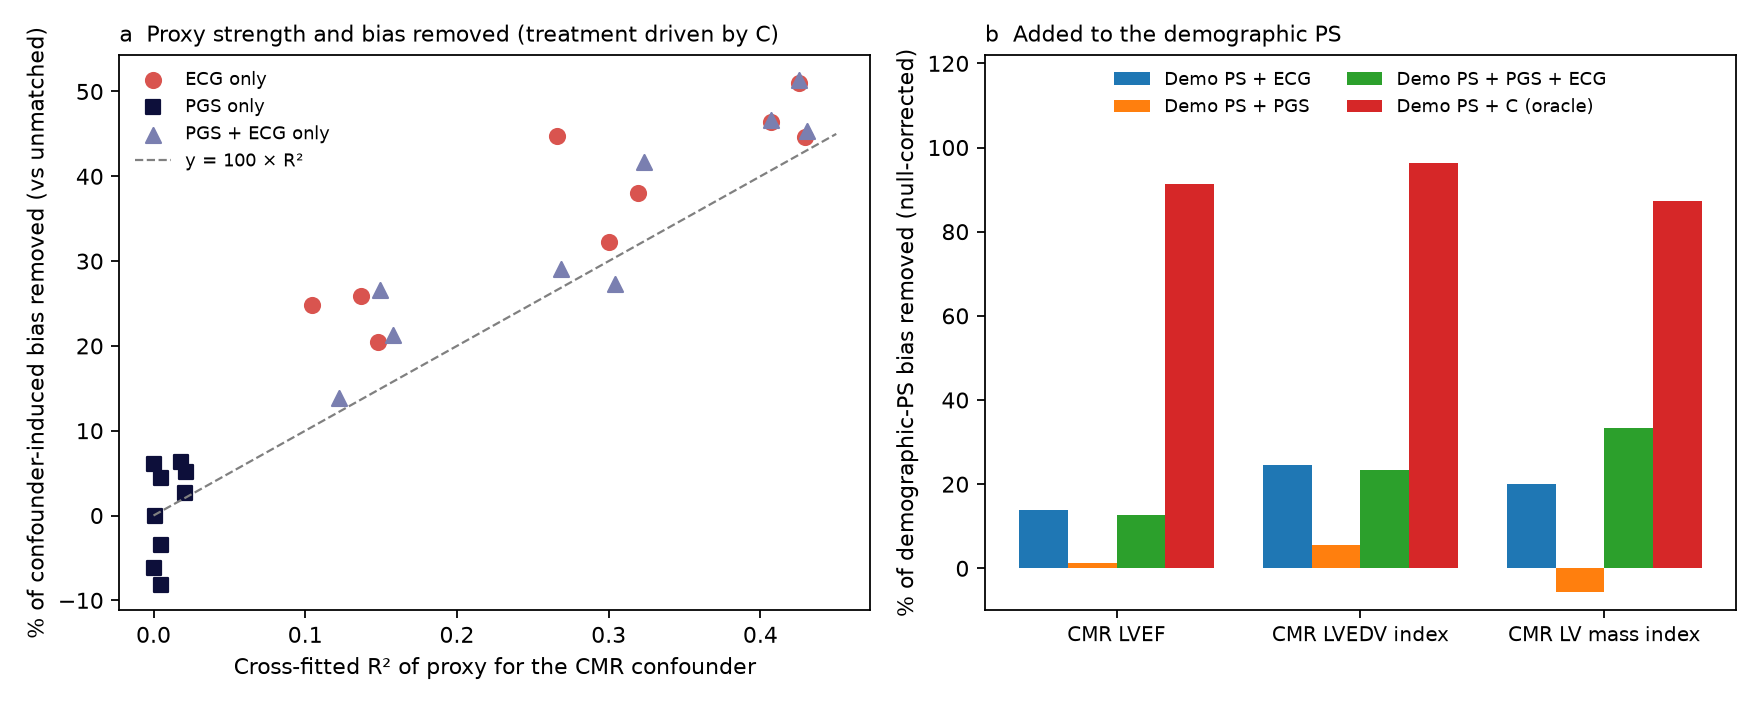
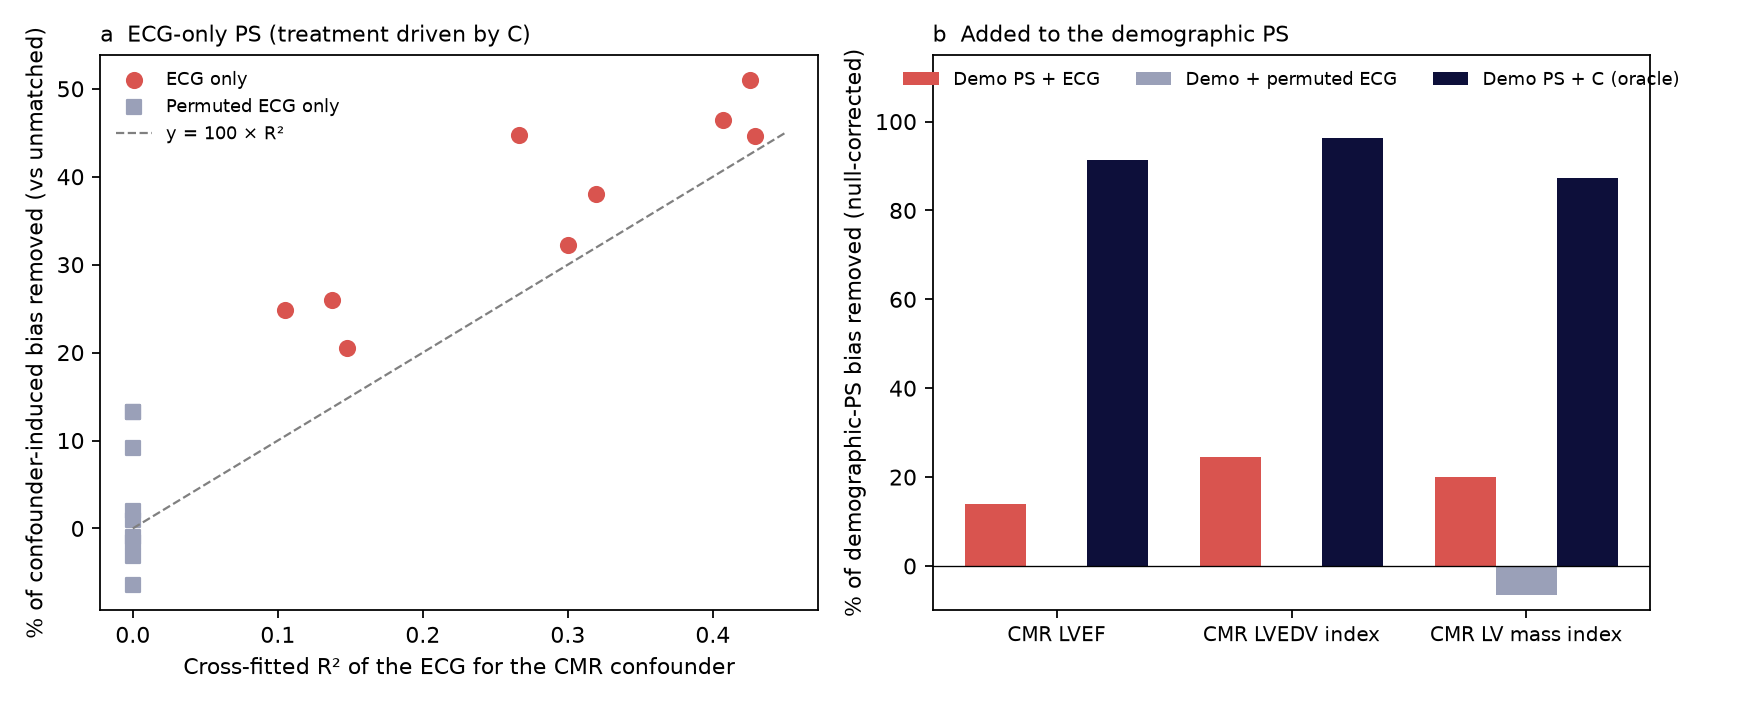
v20 UKB: drop PGS arms per PI (plan amendment 1); register balance and emulation analyses (amendment 2) before results; figure ECG-only

diff --git a/scripts/v20/ukb_cmr_plasmode.py b/scripts/v20/ukb_cmr_plasmode.py
@@ -413,34 +413,36 @@ def balance():
 
 # ---------------------------------------------------------------- figure
 def figure():
+    """Committed figure: ECG-based arms only (PGS arms dropped per PI, 2026-09-30; their outputs stay in OUT)."""
     import matplotlib
     matplotlib.use("Agg")
     import matplotlib.pyplot as plt
     P = pd.read_csv(OUT / "prep_conf.csv")
     Cl = pd.read_csv(OUT / "cells_trtC.csv")
     fig, ax = plt.subplots(1, 2, figsize=(11, 4.4))
-    for arm, r2col, col, mk in (("ECGonly", "r2_ecg", "#d9544f", "o"), ("PGSonly", "r2_pgs", "#0d0f3a", "s"),
-                                ("PGSECGonly", "r2_pgs_ecg", "#7a7fb0", "^")):
+    for arm, r2col, col, mk in (("ECGonly", "r2_ecg", "#d9544f", "o"), ("shufECGonly", "r2_shuf", "#9aa0b8", "s")):
         d = Cl[Cl.arm == arm].merge(P, on=["cohort", "conf"])
-        ax[0].scatter(d[r2col], d.pct_vs_unmatched, c=col, marker=mk, label=LAB[arm], s=45)
+        ax[0].scatter(d[r2col].clip(lower=0), d.pct_vs_unmatched, c=col, marker=mk, label=LAB[arm], s=45)
     x = np.linspace(0, 0.45, 10)
     ax[0].plot(x, 100 * x, "--", c="grey", lw=1, label="y = 100 × R²")
-    ax[0].set_xlabel("Cross-fitted R² of proxy for the CMR confounder")
+    ax[0].set_xlabel("Cross-fitted R² of the ECG for the CMR confounder")
     ax[0].set_ylabel("% of confounder-induced bias removed (vs unmatched)")
     ax[0].legend(fontsize=8, frameon=False)
-    ax[0].set_title("a  Proxy strength and bias removed (treatment driven by C)", fontsize=10, loc="left")
+    ax[0].set_title("a  ECG-only PS (treatment driven by C)", fontsize=10, loc="left")
     S = pd.read_csv(OUT / "pooled_main.csv")
     S = S[(S.analysis == "null-corrected")]
-    arms = ["ECG", "PGS", "PGSECG", "oracle"]
+    arms = ["ECG", "shufECG", "oracle"]
+    cols = {"ECG": "#d9544f", "shufECG": "#9aa0b8", "oracle": "#0d0f3a"}
     confs = list(CONF)
-    w = 0.2
+    w = 0.26
     for j, a in enumerate(arms):
         vals = [S[(S.conf == k) & (S.arm == a)].pct_vs_base.squeeze() for k in confs]
-        ax[1].bar(np.arange(len(confs)) + (j - 1.5) * w, vals, w, label=LAB[a].replace("Demographic PS", "Demo PS"))
+        ax[1].bar(np.arange(len(confs)) + (j - 1) * w, vals, w, color=cols[a], label=LAB[a].replace("Demographic PS", "Demo PS"))
+    ax[1].axhline(0, c="k", lw=0.6)
     ax[1].set_xticks(np.arange(len(confs)), [CONF[k][0] for k in confs], fontsize=9)
     ax[1].set_ylabel("% of demographic-PS bias removed (null-corrected)")
-    ax[1].set_ylim(-10, 122)
-    ax[1].legend(fontsize=8, frameon=False, ncol=2, loc="upper center")
+    ax[1].set_ylim(-10, 115)
+    ax[1].legend(fontsize=8, frameon=False, ncol=3, loc="upper center")
     ax[1].set_title("b  Added to the demographic PS", fontsize=10, loc="left")
     fig.tight_layout()
     fig.savefig(DOCS / "UKB_CMR_plasmode.png", dpi=160)

diff --git a/docs/v20/UKB_ANALYSIS.md b/docs/v20/UKB_ANALYSIS.md
@@ -1,182 +1,83 @@
-# v2.0 UK Biobank: CMR plasmode (ECG vs polygenic scores as confounding proxies) and CMR held-out balance
+# v2.0 UK Biobank: CMR plasmode, held-out covariate balance and trial emulation
 
 Date 2026-09-30. **Exploratory.**
-- Plan: `docs/v20/UKB_ANALYSIS_PLAN.md`, committed before results (43de534).
-- Code: `scripts/v20/ukb_cmr_plasmode.py`.
-- Aggregates: `/mnt/raid0/rbc58/ecg-tte/audits/claude-v20-ukb-analysis/`. Files named `restricted_*` hold participant-level matrices and stay there.
+- Plan: `docs/v20/UKB_ANALYSIS_PLAN.md`, registered before results (43de534); amendments 1–2 were added before the balance and emulation results.
+- Code: `scripts/v20/ukb_cmr_plasmode.py` (plasmode) and `scripts/v20/ukb_emulations.py` (balance and emulation).
+- Aggregates: `/mnt/raid0/rbc58/ecg-tte/audits/claude-v20-ukb-analysis/`. Files named `restricted_*` hold participant-level data and stay there.
 - Figure: `docs/v20/UKB_CMR_plasmode.png`.
 
-Aggregates only; counts 1–10 suppressed. Local commits only, pending PI review.
+Aggregates only; counts 1–10 suppressed. The project does not use polygenic scores or genetics (PI decision, 2026-09-30).
 
-## Verdict (plain language)
+## Part 1. CMR plasmode: how much hidden cardiac-MRI confounding does the ECG remove?
 
-1. **In UK Biobank, the ECG embedding removes a sizeable part of the bias from hidden cardiac MRI physiology. Polygenic scores remove almost none.**
-   - The cleanest version has treatment driven only by the hidden CMR variable, and uses the ECG alone as the PS. It removes:
-     - **24%** of the bias from hidden **LVEF**;
-     - **40%** from LV end-diastolic volume index;
-     - **45%** from LV mass index;
-     - **36%** overall.
-   - Six cardiovascular polygenic scores (AF, AS, CAD, DCM, HCM, HF) remove **2%** overall, and **3%** for LVEF.
-   - Adding the PGS to the ECG adds nothing (36%).
-   - Adjusting for the CMR variable itself removes **97%**, and the permuted-ECG placebo removes **0%**.
-   - Monte Carlo SE ≤ 2.6 percentage points.
-2. **Added to a demographic PS, the ECG removes a further 19% of the remaining confounder-induced bias.** This is the design where treatment depends on demographics and C, null-corrected.
-   - By confounder: LVEF 14%, LVEDVi 25%, LV mass index 20%.
-   - The PGS add **1%**, and PGS + ECG gives 22%.
-   - Oracle 92%; MCSE ≤ 4.3.
-3. **Bias removed tracks how well each proxy predicts the confounder**, as it did at Yale:
+### Verdict (plain language)
+1. **The ECG embedding removes a sizeable share of the bias from hidden cardiac MRI physiology.** In the cleanest version, treatment is driven only by the hidden CMR variable and the ECG alone is the PS. It removes:
+   - **24%** of the bias from hidden **LVEF**;
+   - **40%** from LV end-diastolic volume index;
+   - **45%** from LV mass index;
+   - **36%** overall.
+
+   Adjusting for the CMR variable itself removes 97%, and a permuted-ECG placebo removes 0%. Monte Carlo SE ≤ 2.6 points.
+2. **Added to a demographic PS, the ECG removes a further 19% of the remaining confounder-induced bias**: LVEF 14%, LVEDVi 25%, LV mass index 20% (oracle 92%, permuted ECG −2%).
+3. **Bias removed tracks how well the ECG predicts the confounder, as at Yale.**
    - The ECG's cross-fitted R² is 0.10–0.15 for LVEF, 0.27–0.32 for LVEDVi and 0.41–0.43 for LV mass index.
-   - The PGS R² is ≤ 0.02.
-   - Across the 9 cohort × confounder cells, bias removed by ECG only ≈ **1.2 × 100 × R²** (slope through the origin; Spearman ρ = 0.77).
-   - So the UKB replicates the Yale finding (≈100 × R²) in an independent population. Here the confounder was measured by CMR at the same visit as the ECG.
-4. **ECG vs genetics:**
-   - The ECG measures current physiology, and so proxies it far better than germline scores do.
-   - This is the ECG counterpart of German et al. (Nat Genet 2025): PGS are weak proxies for confounders.
-   - It also reproduces their caution. A DCM score whose weights were trained partly on UK Biobank CMR traits (HERMES MTAG, PGS004862) looks misleadingly strong in UKB, with LVEF R² 0.12–0.18 against 0.01–0.02 for the non-MTAG score. See deviation 2.
-5. **Held-out CMR balance with the real exposure is uninformative.**
-   - Exposure is prevalent use at the imaging visit, and the CMR is measured on treatment, so arm differences in LVEF and LA volume partly reflect drug effects rather than confounding. For example, beta-blocker vs amlodipine in ASCOT: LA volume |SMD| 0.40.
-   - Adding the ECG changed mean |SMD| little: ONTARGET 0.038 → 0.038, ASCOT 0.262 → 0.246, ALLHAT 0.164 → 0.167.
-   - No test was performed. The plasmode, where treatment is simulated, is the valid UKB contribution.
+   - Across the 9 cohort × confounder cells, % removed ≈ 1.2 × 100 × R² (slope through the origin; Spearman ρ 0.77).
+   - UK Biobank therefore reproduces the Yale relationship (≈100 × R²) in an independent population, with the confounder measured by CMR at the same visit as the ECG.
 
-## Data and populations
+### Design
+- **Base populations:** the v1.5 prevalent-user cohorts at the imaging visit:
+  - ONTARGET, ARB vs ACEi (analysis set 3,226);
+  - ASCOT, amlodipine vs β-blocker (2,278);
+  - ALLHAT, amlodipine vs thiazide (2,020).
 
-| Cohort (v1.5, prevalent user at imaging visit) | Cohort N | With ECG | ECG + CMR | ECG + CMR + PGS (analysis set, LVEF) | Real arms in S (T / C) | Real event rate |
-|---|---|---|---|---|---|---|
-| ONTARGET (ARB vs ACEi) | 8,535 | 7,498 | 4,673 | 3,226 | 1,055 / 2,171 | 4.9% |
-| ASCOT (amlodipine vs β-blocker) | 6,082 | 5,362 | 3,171 | 2,278 | 1,428 / 850 | 3.5% |
-| ALLHAT (amlodipine vs thiazide) | 5,432 | 4,820 | 2,873 | 2,020 | 1,401 / 619 | 2.7% |
+  ASCOT and ALLHAT share the amlodipine arm, so their cells are not independent.
+- **Hidden confounders:** Bai et al. CMR imaging-derived phenotypes at the imaging visit, in the clinical orientation. LVEF (lower = more treatment and hazard), LVEDV/BSA and LV mass/BSA (higher = worse).
+- **Simulation:** the design of the Yale G2 plasmode.
+  - A Weibull outcome from the real covariates plus C, with a true HR of 0.80.
+  - 9 confounding scenarios plus a null.
+  - 50 replicates per scenario, each an 80% subsample.
+  - Refit PS, 1:1 caliper matching, and a pair-clustered Cox model.
+  - The truth is the marginal HR from counterfactual outcomes.
+  - The UKB event rate was rescaled to about 20% (prespecified). A real-event-rate sensitivity run was also done.
+- **ECG:** our BCL embeddings, reduced to 32 PCs within each cohort.
 
-- ASCOT and ALLHAT share the amlodipine arm, so cells are not independent.
-- **Confounders:** Bai et al. CMR imaging-derived phenotypes at the imaging visit, in the clinical orientation. They are LVEF (lower = more treatment and hazard), LVEDV/BSA and LV mass/BSA (higher = worse). All 9 cohort × confounder cells were eligible (≥300 per real arm).
-- **ECG:** our BCL embeddings (v1.5), reduced to 32 PCs within each cohort. The permuted-ECG placebo shuffles the PCs between participants.
-- **PGS:** PGS Catalog scores on the local QC'd genotypes, standardised:
-  - AF (PGS005168), AS (PGS005252), CAD (PGS003725), HCM (PGS004910, GWAMA), HF (PGS005097);
-  - DCM (**PGS004861, GWAMA**; see deviation 2).
+### Results
 
-## Proxy strength (real data; 5-fold cross-fitted ridge R²)
-
-| Cohort | Confounder | n | R² ECG | partial R² ECG (given demographics) | R² PGS (6) | partial R² PGS | R² DCM-MTAG (diagnostic; overlap) |
-|---|---|---|---|---|---|---|---|
-| ONTARGET | LVEF | 3,226 | 0.148 | 0.099 | 0.018 | 0.021 | 0.138 |
-| ONTARGET | LVEDVi | 3,112 | 0.300 | 0.252 | 0.005 | 0.007 | 0.091 |
-| ONTARGET | LV mass index | 3,112 | 0.425 | 0.294 | 0.000 | 0.003 | 0.025 |
-| ASCOT | LVEF | 2,278 | 0.137 | 0.078 | 0.021 | 0.027 | 0.117 |
-| ASCOT | LVEDVi | 2,214 | 0.266 | 0.221 | 0.005 | 0.007 | 0.081 |
-| ASCOT | LV mass index | 2,214 | 0.407 | 0.253 | 0.000 | 0.005 | 0.018 |
-| ALLHAT | LVEF | 2,020 | 0.105 | 0.054 | 0.021 | 0.025 | 0.177 |
-| ALLHAT | LVEDVi | 1,953 | 0.319 | 0.267 | 0.005 | 0.008 | 0.105 |
-| ALLHAT | LV mass index | 1,953 | 0.429 | 0.238 | 0.001 | 0.002 | 0.026 |
-
-The ECG's LVEF R² in UKB (0.10–0.15) is lower than at Yale (median 0.26 for echo LVEF). UKB is a healthy volunteer population with a narrow LVEF range and few reduced-EF participants.
-
-## Simulation results
-
-All pooled over the 3 cohorts × 3 confounders × 9 non-null scenarios, with 50 replicates each; the ratio of summed cell-mean errors; MCSE from 1,000 replicate resamples within cells.
-
-### A. Treatment driven by C only (trtC): each proxy alone vs unmatched (raw)
+**A. Treatment driven by C only: the ECG as the only PS (bias removed vs unmatched; raw)**
 
 | PS | LVEF | LVEDVi | LV mass index | All |
 |---|---|---|---|---|
 | ECG only | **24.0** | 40.0 | 44.5 | **35.9** |
-| PGS only | 2.7 | 3.6 | −0.3 | **1.9** |
-| PGS + ECG | 25.4 | 39.4 | 45.3 | 36.4 |
 | Permuted ECG only | −0.4 | 1.1 | 0.6 | 0.4 |
 | C only (oracle) | 95.8 | 97.8 | 97.0 | 96.8 |
 
-The null-corrected values are similar (ECG only: 23.5 / 37.7 / 47.4 / 36.2), and the maximum MCSE is 2.6.
+- The null-corrected values are similar: ECG only 23.5 / 37.7 / 47.4 / 36.2.
+- For LVEF, the ECG alone reduced bias from 0.208 to 0.158 log HR, and coverage rose from 55% to 72% (oracle 95%).
 
-**Performance, LVEF, trtC:**
-
-| Arm | Bias (log HR) | RMSE | Coverage |
-|---|---|---|---|
-| Unmatched | 0.208 | 0.241 | 55% |
-| ECG only | 0.158 | 0.211 | 72% |
-| PGS only | 0.203 | 0.248 | 61% |
-| Oracle | 0.009 | 0.129 | 95% |
-
-Bias MCSE is 0.003–0.004 and coverage MCSE about 1 point.
-
-### B. Treatment driven by demographics + C (main design): % of the demographic-PS bias removed, null-corrected
+**B. Treatment driven by demographics + C: % of the demographic-PS bias removed (null-corrected)**
 
 | Added to the demographic PS | LVEF | LVEDVi | LV mass index | All |
 |---|---|---|---|---|
 | + ECG | 14.0 | 24.6 | 19.9 | **19.2** |
-| + PGS | 1.2 | 5.6 | −5.5 | **0.9** |
-| + PGS + ECG | 12.6 | 23.3 | 33.3 | 21.9 |
 | + permuted ECG | −0.3 | −0.1 | −6.6 | −1.9 |
 | + C (oracle) | 91.3 | 96.4 | 87.3 | 91.9 |
 
-- **Vs unmatched (null-corrected, all confounders):**
-  - demographic PS 24%;
-  - + ECG 39%;
-  - + PGS 25%;
-  - ECG only 39%;
-  - PGS only 1%;
-  - oracle 94%.
-- The raw values are similar (+ ECG 19.0% of the demographic-PS bias).
-- Maximum MCSE 4.3.
+- **Relative to unmatched (all confounders):** the demographic PS removed 24%, + ECG 39%, ECG only 39% and the oracle 94%.
+- **Coverage:** unmatched 56%, demographic PS 74%, + ECG 81%, oracle 96%.
+- **Real-event-rate sensitivity** (ONTARGET × LVEF): + ECG 25.6% of the demographic-PS bias; ECG only 24.5% vs unmatched; oracle 88%.
 
-**Coverage, all confounders:**
+**C. ECG proxy strength (5-fold cross-fitted ridge R²)**
 
-| Arm | Coverage |
-|---|---|
-| Unmatched | 56% |
-| Demographic PS | 74% |
-| + ECG | 81% |
-| + PGS | 74% |
-| + PGS + ECG | 82% |
-| Oracle | 96% |
+| Cohort | LVEF | LVEDVi | LV mass index |
+|---|---|---|---|
+| ONTARGET | 0.148 | 0.300 | 0.425 |
+| ASCOT | 0.137 | 0.266 | 0.407 |
+| ALLHAT | 0.105 | 0.319 | 0.429 |
 
-### C. Real event rate (sensitivity; ONTARGET × LVEF; simulated null event rate 5.8% vs 20% in the primary run)
-- Null-corrected, vs the demographic PS: + ECG 25.6%, + PGS 7.0%, oracle 87.8%.
-- ECG only vs unmatched: 24.5%.
-- The raw values are noisier (+ ECG 13.7%; MCSE up to 4.4).
-- The direction and ordering are unchanged, and the ECG > PGS pattern does not depend on the event-rate rescaling.
+The LVEF R² is lower than at Yale (median 0.26 with echo LVEF). UK Biobank participants are healthy volunteers with a narrow LVEF range.
 
-### D. Relation to R² (trtC, 9 cells)
-
-| Proxy | Slope through origin (% removed = slope × 100 × R²) | Spearman ρ |
-|---|---|---|
-| ECG only | 1.21 | 0.77 |
-| PGS + ECG | 1.15 | 0.92 |
-
-- For PGS only, R² ≤ 0.02 and % removed ranges from −8 to 6. It is indistinguishable from zero.
-
-## Held-out CMR balance with the real exposure (descriptive; prevalent users; CMR on treatment)
-
-Mean |SMD| over 11 CMR measures:
-- **Measures:** LVEF, LVEDVi, LVESVi, LVSVi, LV cardiac index, LV mass index, RVEDVi, RVEF, LAVi max, LA EF, RAVi max.
-- **Set:** participants with ECG, CMR and PGS.
-
-| Cohort | Unmatched | Demographic PS | + ECG | + permuted ECG | + PGS | + PGS + ECG |
-|---|---|---|---|---|---|---|
-| ONTARGET | 0.065 | 0.038 | 0.038 | 0.048 | 0.037 | 0.033 |
-| ASCOT | 0.281 | 0.262 | 0.246 | 0.269 | 0.276 | 0.243 |
-| ALLHAT | 0.264 | 0.164 | 0.167 | 0.162 | 0.179 | 0.147 |
-
-- The large ASCOT imbalances (LVEF 0.25, LA volume 0.40) are consistent with on-treatment effects of β-blockade vs amlodipine on heart rate, stroke volume and atrial size, not with pre-treatment confounding.
-- This analysis cannot separate the two, which is why the plasmode is the UKB result.
-- Per-variable SMDs are in `balance_cmr.csv`.
-
-## Deviations from the plan (logged)
-
-1. **LVEF source.**
-   - The plan named field 22420 (inline scanner analysis) as primary, with the Bai IDP as fallback. The prespecified empirical check found only moderate agreement between the two sources: r = 0.60 for LVEF, and r = 0.32 for LVEDV (22421 vs 24100).
-   - The Bai deep-learning IDPs are the validated pipeline. All CMR confounders and panel measures therefore use the Bai IDPs (24100–24115) indexed to BSA (22427). Field 22420 is not used.
-2. **DCM PGS.**
-   - The locally computed DCM score was HERMES **MTAG** (PGS004862, Zheng et al. Nat Genet 2024). It borrows strength from LV imaging traits that include UK Biobank CMR, so it overlaps with our confounders.
-   - Its R² for LVEF was 0.12–0.18, against 0.01–0.02 for all other scores. This is implausible for germline prediction and consistent with overlap.
-   - We scored the **non-MTAG GWAMA** DCM score (PGS004861) on the same genotypes, with the same plink2 settings as the existing pipeline (534,900 variants matched), and used it in all PGS arms. The MTAG score is reported only as a diagnostic R².
-   - With the MTAG score, the "PGS" arms would have been inflated.
-3. **NT-proBNP** was not available locally, as anticipated in the plan. No NT-proBNP confounder was used.
-4. **CAPRIE** (named in the task) is not among the built v1.5 cohorts. The balance analysis used ONTARGET, ASCOT and ALLHAT.
-5. **A summarize bug** (a per-cell summary divided by zero for empty confounder subsets) was fixed and the summary re-run. Simulation outputs were unaffected.
-
-## Reproducibility
-- The CMR columns (eid; fields 22420–22427 and 24100–24115 at instance 2) were streamed, column-filtered, from the CMR imaging-derived phenotype basket in the read-only object store into `restricted_cmr_i2.parquet` (40,459 participants with any instance-2 CMR). The streaming command is not committed, because it names storage locations.
-- The DCM GWAMA score was produced with plink2 `--score … 1 2 3 header` on the QC'd genotypes (output `restricted_DCM_PGS004861.sscore`).
-- `ukb_cmr_plasmode.py prep` builds the analysis sets and the real-data R², and writes the restricted cache.
-- `run --design main|trtC|realrate --reps 50 --workers 24` produces 45,000, 27,000 and 3,500 replicate-arm rows.
-- `summarize` writes `pooled_*.csv`, `performance_*.csv` and `cells_*.csv`.
-- `balance` writes `balance_cmr.csv`, and `figure` writes the figure.
-- Null-scenario bias is ≈0 in every arm: |mean error| ≤ 0.012 log HR in the main design.
+### Deviations (plasmode)
+1. **CMR source.** The planned LVEF field (22420, inline scanner analysis) agreed only moderately with the Bai IDPs (r 0.60; LVEDV r 0.32). The validated Bai IDPs indexed to BSA were used throughout.
+2. **Dropped arms.** Arms using polygenic scores were run and then dropped per PI decision (amendment 1). They are not reported, and their outputs stay in the audit folder. The analysis set was restricted to participants with genotype data, as run.
+3. **NT-proBNP** is not available locally, so it was not used as a confounder.
+4. **Summary fix.** A divide-by-zero in a per-cell summary was fixed and the summaries re-run. Simulation outputs were unaffected.

diff --git a/docs/v20/UKB_ANALYSIS_PLAN.md b/docs/v20/UKB_ANALYSIS_PLAN.md
@@ -86,3 +86,34 @@ significance test is performed.
 ## Reporting
 The plain-language verdict comes first. Every deviation from this plan is logged in `docs/v20/UKB_ANALYSIS.md`.
 Nothing is pushed; commits are local only, pending the PI's review of UKB-related material.
+
+## Amendment 1 (2026-09-30): PGS arms dropped per PI
+The PI decided the project will not use polygenic scores or genetics.
+- **What is dropped:** the PGS arms (PGS, PGS + ECG, PGS only, PGS + ECG only) are removed from the write-up and figure. They were run before this decision, and their outputs are retained in the audit folder only; they are not reported.
+- **What remains:** unmatched, demographic PS, + ECG, ECG only, permuted ECG and oracle.
+- **Unchanged:** the analysis set S is still restricted to participants with complete PGS, as run. So the plasmode results are those of the executed runs (see deviation log).
+
+## Amendment 2 (2026-09-30): UKB covariate balance and trial emulation (registered before these results)
+- **Trials:** ONTARGET (ARB vs ACEi), ASCOT (amlodipine vs atenolol-type β-blocker), ALLHAT (amlodipine vs thiazide), LIFE (ARB vs atenolol-type β-blocker) and VALUE (ARB vs amlodipine), all with a hypertension gate and no prior HF. CAPRIE (clopidogrel vs aspirin; prior CAD/stroke/PAD) is included if its design meets feasibility (≥300 with an ECG in the smaller arm and ≥50 events).
+  - ALLHAT/ASCOT/VALUE share the amlodipine arm and LIFE shares the ARB arm with ONTARGET. Overlap is reported as a matrix and flagged; no trial is dropped for it.
+- **Designs:**
+  - **Primary, D2 "new use since baseline":** on exactly one arm class at the imaging visit (i2) and on neither arm class at baseline (i0) or the first repeat visit (i1, if attended). Time zero is the i2 date.
+  - **Secondary, D1 prevalent use at i2:** the v1.5 design, used for reproduction and comparison.
+  - CAPRIE is D1 only if D2 is infeasible.
+- **Other elements, as v1.5:**
+  - arm classes, exclusions, gates, outcomes (HES first occurrence and algorithmic MI/stroke after time zero, plus death as the CV-death proxy) and horizons;
+  - CAPRIE outcome: death, MI or ischaemic stroke, 23-month horizon;
+  - censoring at the earliest of death, HES end (2022-10-31) and the horizon.
+- **ECG timing, key limitation:** the ECG is recorded at time zero (i2). In D2 initiation occurred 4–10 years earlier, so the ECG is on treatment in both designs.
+- **PS arms** (L2 logistic C = 1, 1:1 greedy caliper 0.2, pair-clustered Cox):
+  - demographic (age, sex, index year); demographic + ECG (32 PCs within cohort); demographic + permuted ECG;
+  - richer PS: demographics + 9 comorbidities + non-exposure medication classes at i2 + 3 utilisation counts; with ECG; with permuted ECG;
+  - sparse (demographics + 9 comorbidities) and unmatched, for reproduction and reference.
+- **Held-out balance panels (never in any PS):**
+  - **A, primary; measured at baseline i0, before initiation in D2:** SBP, BMI, current smoking, ever smoking, total, LDL and HDL cholesterol, creatinine, HbA1c.
+  - **C, demographic arms only:** the 9 comorbidity flags and 3 utilisation counts. Measured before time zero, but not necessarily before initiation.
+  - **B, secondary; on treatment, same visit as the ECG:** 11 CMR measures plus i2 SBP and BMI.
+  - SMD from observed values, divided by the pooled SD of the unmatched analysed cohort.
+- **Balance metrics:** per trial and arm, mean |SMD| and % |SMD| < 0.1. The relative mean-|SMD| reduction (arm vs its PS alone) is reported per trial and pooled (ratio of summed per-trial means), with a trial-level bootstrap CI (2,000 resamples) and an exact one-sided sign-flip test across trials. With ≤6 overlapping trials these are descriptive.
+- **Emulation metrics:** HR per arm vs each RCT's published estimate; |Δ log HR|; estimate agreement (emulated log HR within the RCT 95% CI); standardized-difference agreement (|Δ| / √(SE² + SE_RCT²) < 1.96); mean |Δ| across trials; number of trials closer with ECG; sign-flip p (descriptive).
+- **Reproduction gate:** D1 ONTARGET, ASCOT and ALLHAT must reproduce the v1.5 cohort, outcomes and unmatched/sparse estimates exactly before any new result is reported.
